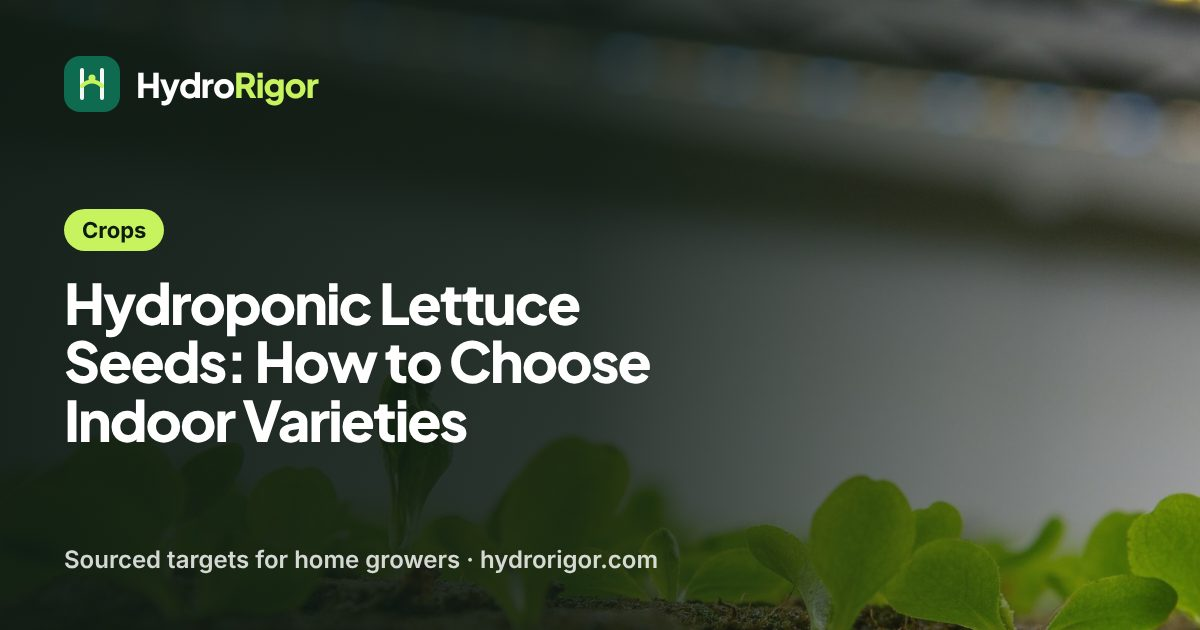
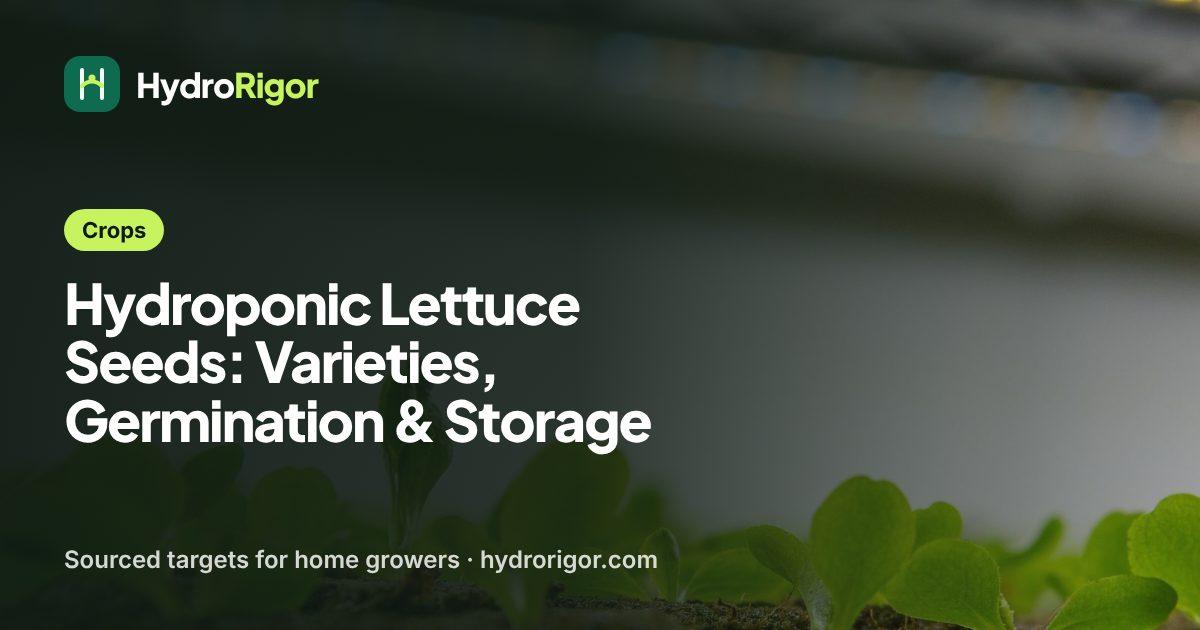
Regenerate share images after the lettuce seeds retitle; tick Phase 2 manifest
Claude-Session: https://claude.ai/code/session_011zSWQv9U5GfhByfPKZnqmb

Changed region(s): [[0.0617, 0.5429, 0.555, 0.7238]]

diff --git a/.agent/state/CURRENT_MILESTONE.md b/.agent/state/CURRENT_MILESTONE.md
@@ -27,6 +27,8 @@ that ships it. Volumes are US monthly searches from `docs/research/M06_KEYWORD_R
       card, photo "Keep reading" cards, schema images, large image previews (PR #20)
 - [x] Specific search titles for the strawberry, lettuce and nutrients guides
 - [x] Email: ImprovMX forwarding live (DNS 2026-11-04); /contact/ shows hello@hydrorigor.com (2026-11-05)
+- [x] Branded share images (public/og/) and Pinterest pins (public/pins/) for every guide;
+      regenerate with `npm run images:share` after a title or photo change
 
 ### Queue (work top to bottom; one item per run)
 Ordered on 2026-11-03 by opportunity: informational topics with low difficulty first.
@@ -35,7 +37,7 @@ listings and "best, tested" product roundups (Ubersuggest SERP, 2026-11-03); it 
 buyer-oriented rewrite with named system types, done after the informational guides.
 
 1. [x] `/crops/hydroponic-lettuce-seeds/` — hydroponic lettuce seed (2,400, difficulty 20); rebuilt 2026-11-05
-2. [ ] Phase 2 manifest (plan IDs 26+) with tests, in its own PR, so new guides can be added
+2. [x] Phase 2 manifest (plan IDs 26+) with tests, in its own PR, so new guides can be added (PR #23)
 3. [ ] New guide `/crops/hydroponic-basil/` — hydroponic basil (880, difficulty 11; Ubersuggest 2026-11-03)
 4. [ ] `/crops/hydroponic-tomatoes/` — hydroponic tomatoes (1,900, difficulty 29)
 5. [ ] `/crops/nft-hydroponic-strawberries/` — nft hydroponic strawberries (390, difficulty 15)

diff --git a/.agent/state/CURRENT_HANDOFF.md b/.agent/state/CURRENT_HANDOFF.md
@@ -19,8 +19,9 @@ Updated: 2026-11-05
 - CI Lighthouse steps have failed before when GitHub's Chrome version changed. If only those
   steps fail, re-run the job once and report it; do not weaken the budgets.
 - Backlinks (the site has none yet, per Ubersuggest 2026-11-03): link to HydroRigor from the
-  owner's foundation site bio; create a Pinterest business account for pins of guide images;
-  answer r/Hydroponics questions where a guide genuinely helps.
+  owner's foundation site bio; create a Pinterest business account and post the ready-made
+  1000x1500 pins (one per guide at `https://hydrorigor.com/pins/<route>.jpg`, linking to the
+  guide); answer r/Hydroponics questions where a guide genuinely helps.
 - Author profiles: send real LinkedIn / organisation URLs to add as `sameAs` in `src/data/authors.ts`.
 - Search Console: Claude needs Chrome with the Claude extension open to read indexing data.
 - OpenRush has no credits; the monthly SEO review uses Ubersuggest (10 live SERP refreshes/month).
